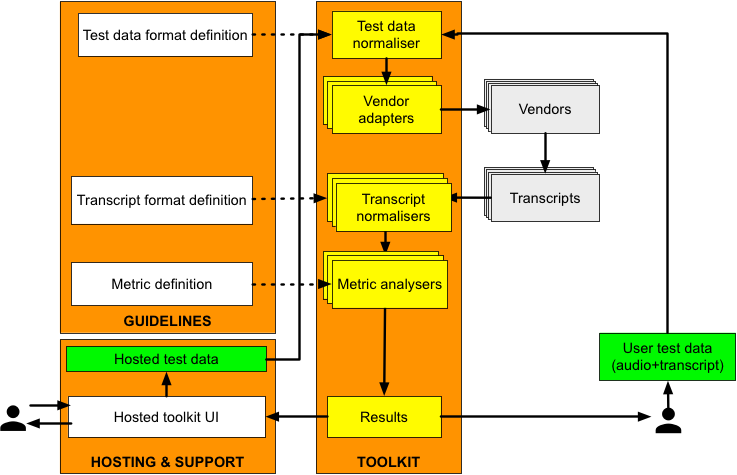
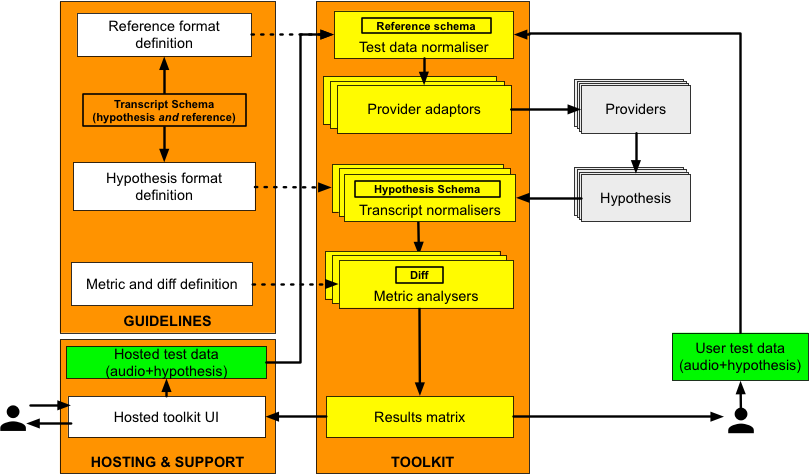
Release 1 scope and changes to HLD

diff --git a/docs/releases/1.0/scope_r10.md b/docs/releases/1.0/scope_r10.md
@@ -1,0 +1,40 @@
+DRAFT Release 1.0 (MVP) scope 
+=============================
+This document describes the minimal set of components and functionality for the first release of the STT benchmarking toolkit.
+
+In order to focus the initial development on the important part of the system, this version will not include integrations with the providers. Subsequent versions can create adapters that given the credentials for the STT service and the audio or video to transcribe can automate the request.  
+
+This version will focus on defining the diff and WER algorithms and return WER scores for transcripts manually submitted to a small number of cloud providers. 
+
+For an overview of the system and component names see https://github.com/ebu/ai-benchmarking-stt/wiki
+
+This release will include:
+
+### Test data
+The reference will be a simple string containing words only (i.e. no timings, punctuation marks or non-word sounds such as 'erm'). The audio must also contain words only (this could be as simple as a recording of someone reading out some text). 
+
+### Transcript schema
+The basis for a future comprehensive schema for the reference and the hypothesis. In this release it will include words only, for example:
+```javascript
+[
+	{hello},
+	{world}
+]
+``` 
+
+### Hypothesis normalisers
+This component will convert from the different formats of the hypotheses to a single JSON format using the transcript schema. A documentation guide helps provide guidance to create new converters to add more providers to the system.
+
+### Analysis 
+- Diff component: Define the diff algorithm and use it to identify deletions, insertions, matches and substitutions between the reference and the hypothesis strings. This component could use a diffing library under hood and/or something more appropriate. 
+- WER analyser: Define the WER algorithm and provide documentation with pseudo-code so that users are clear about the approach taken, pros and cons and any limitations. It is important to be transparent about the diff and WER definitions because the algorithms are likely to affect the results.   
+
+### Results
+- WER score for each provider, in percent. 
+- Number of deletions, insertions, substitutions and matches for each provider
+- Detailed results in a structured format (e.g. JSON) that can be used for further visualisation or processing (out of scope).
+
+
+
+
+
